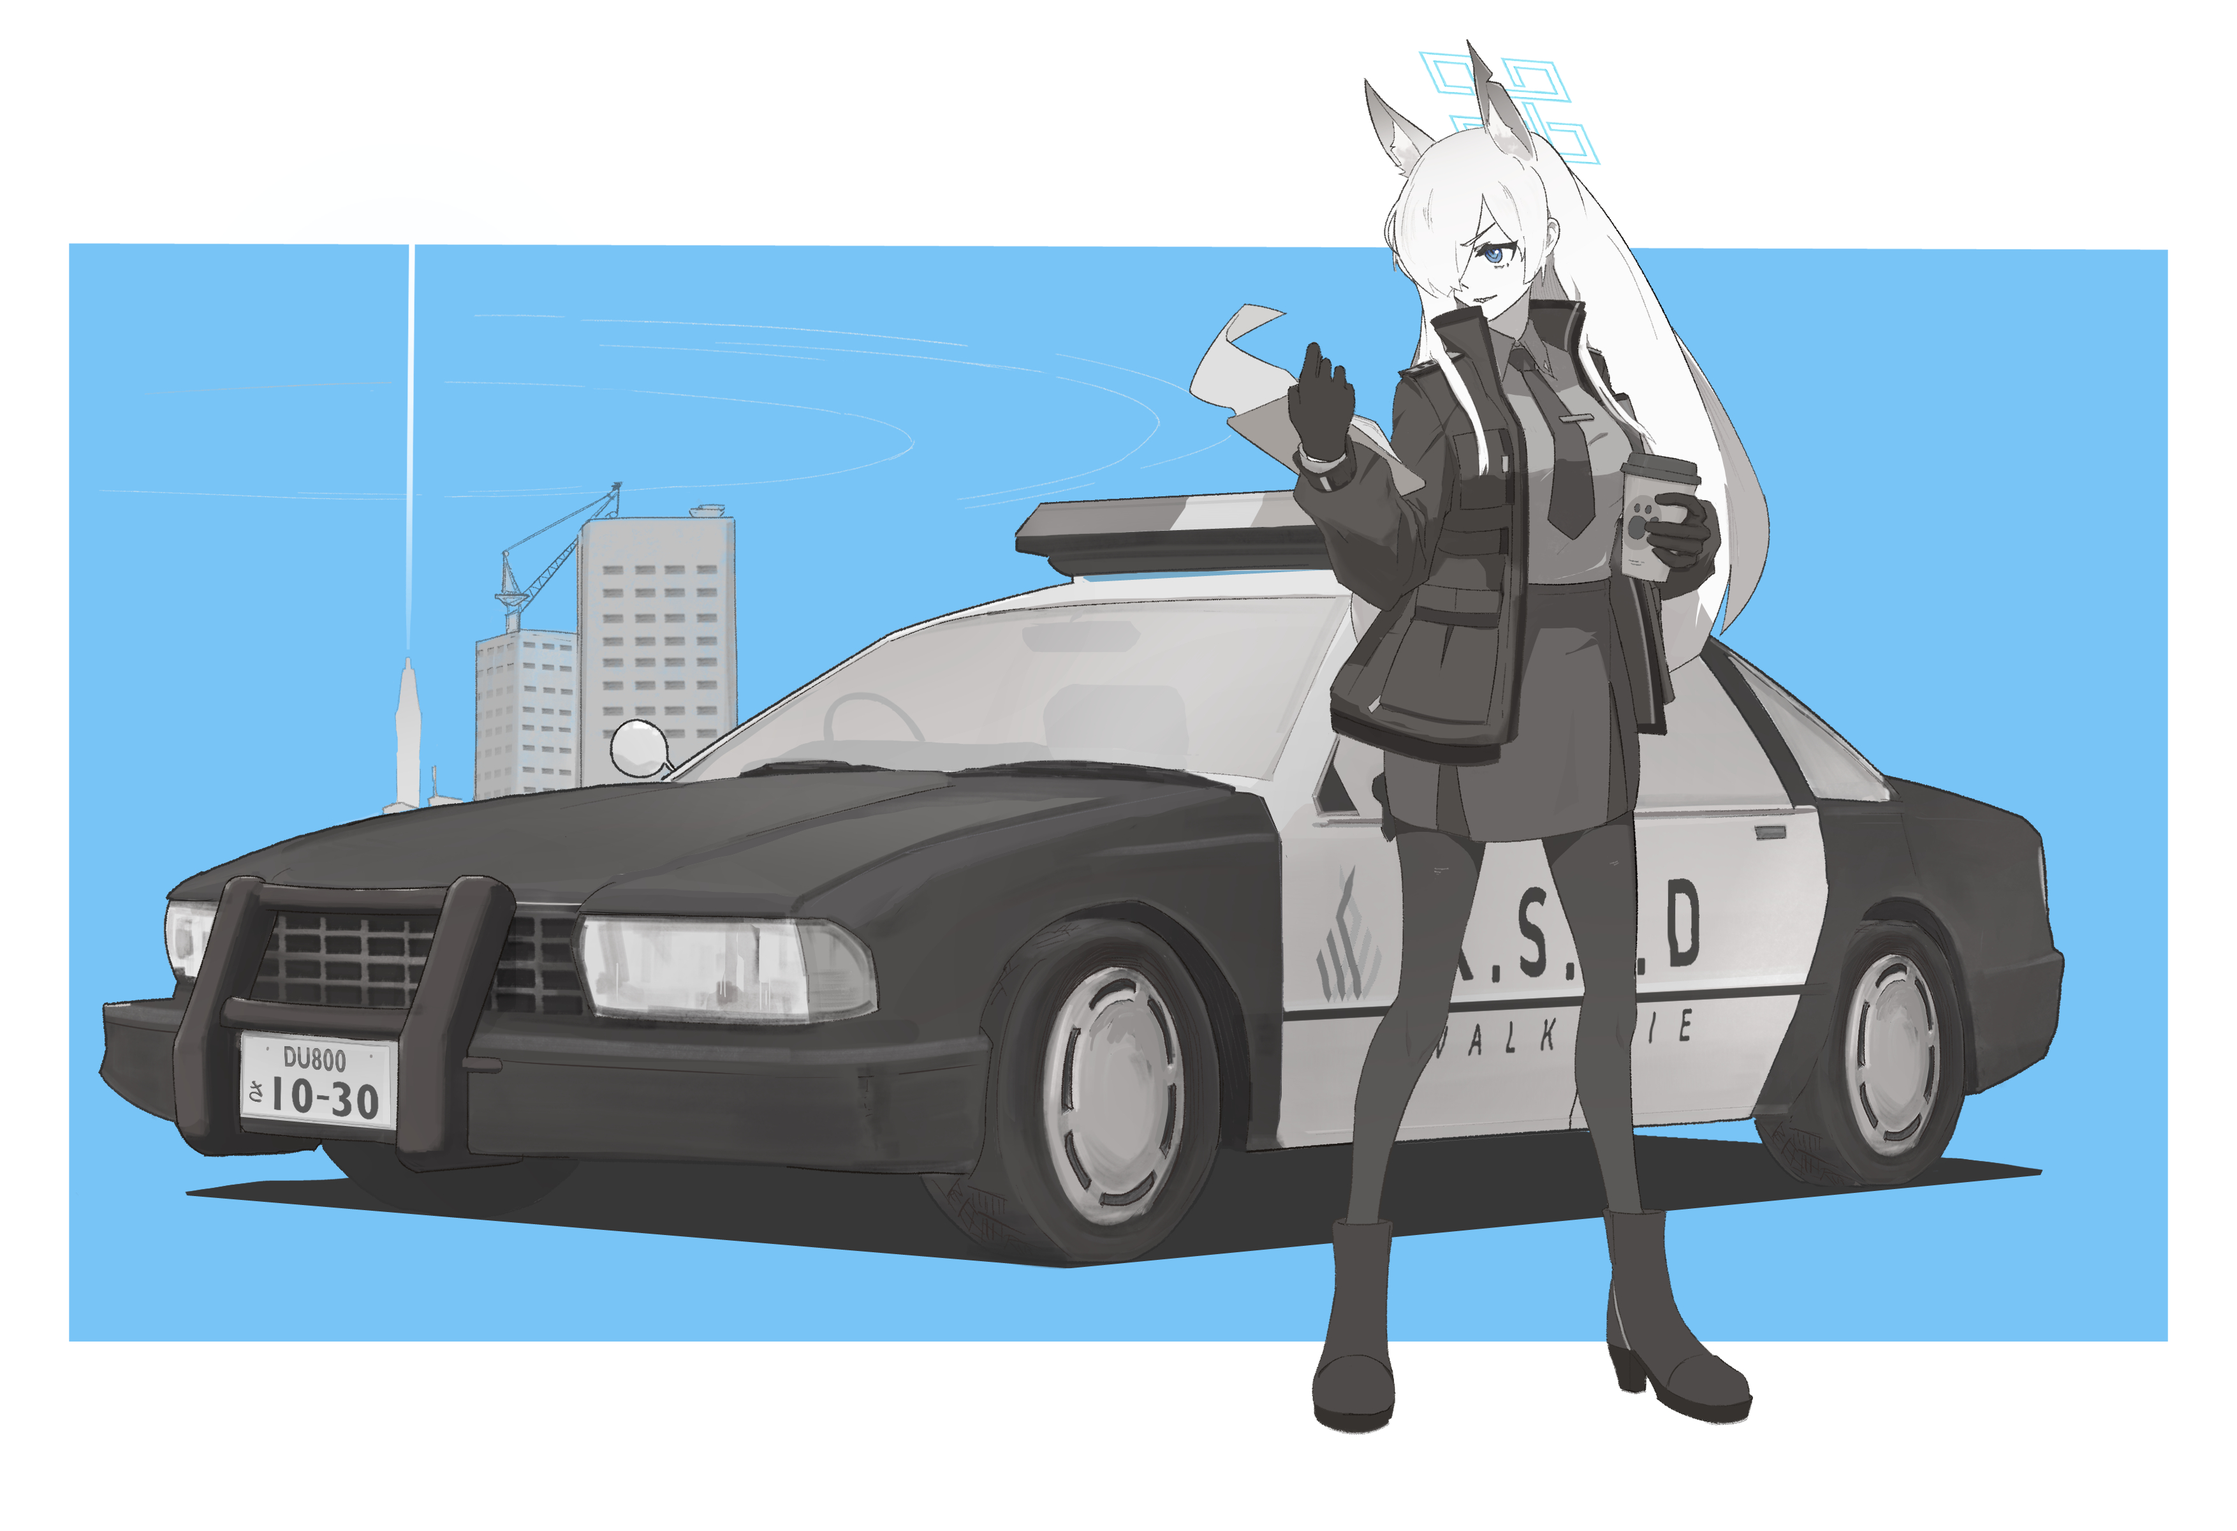
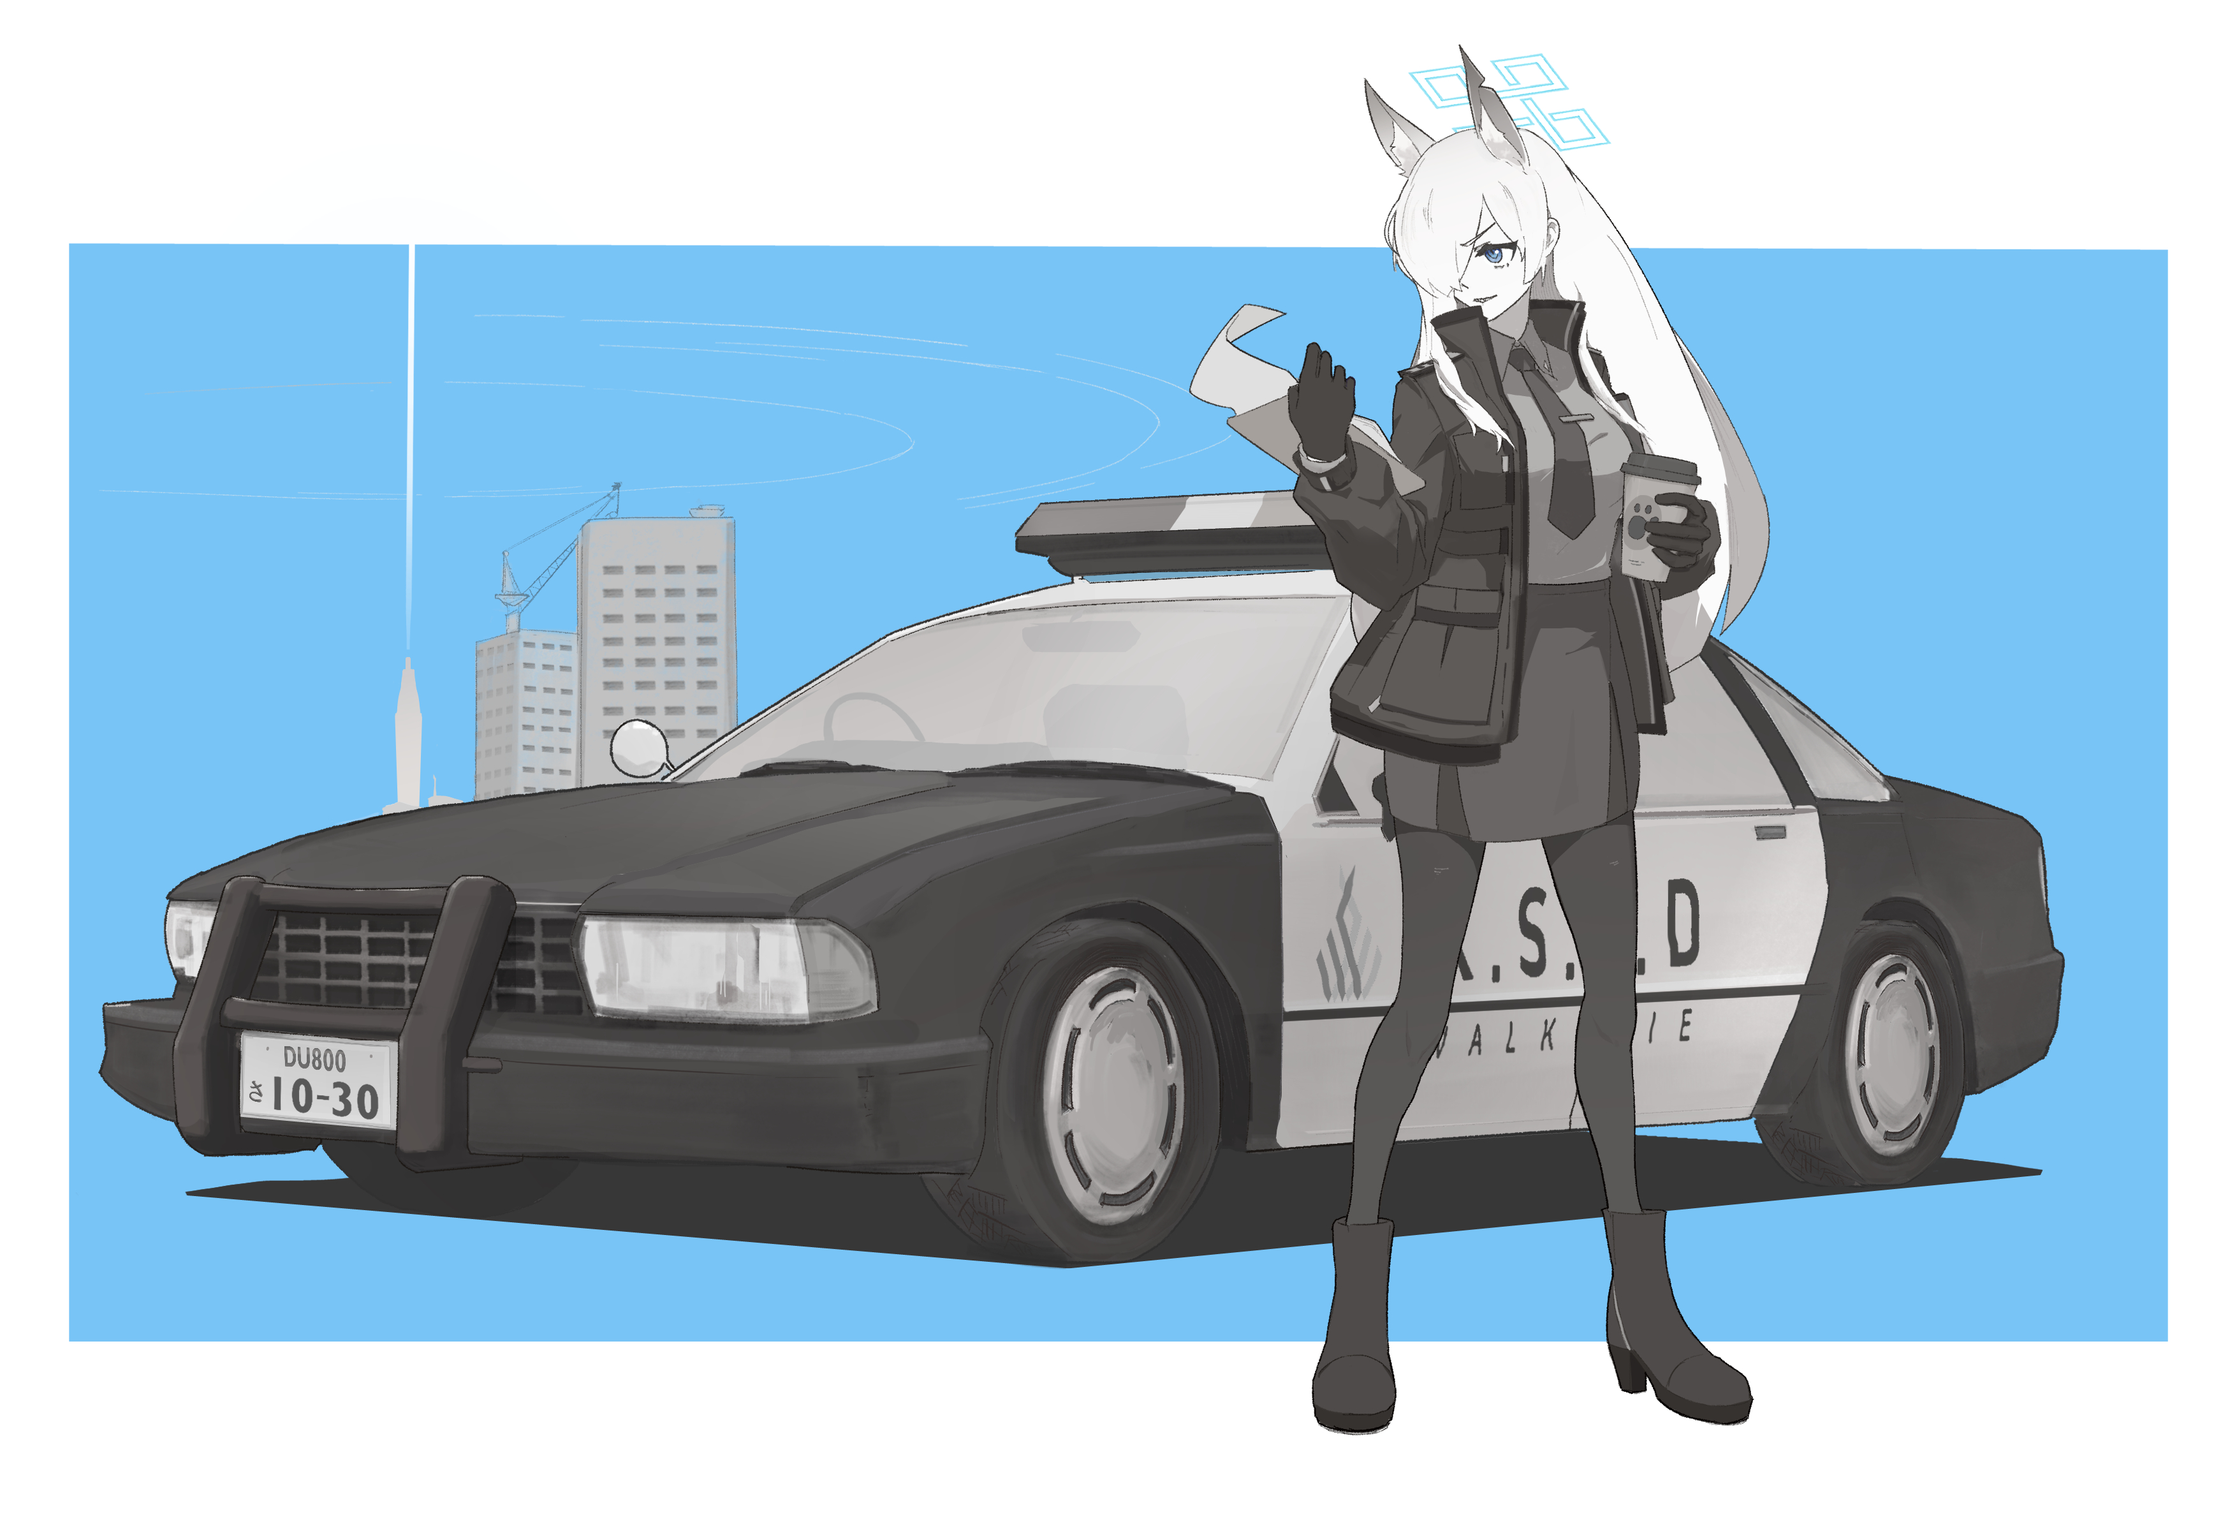
更新ICON 自我介紹

diff --git a/src/components/Home/Home2.js b/src/components/Home/Home2.js
@@ -1,64 +1,42 @@
 import React from "react";
 import { Container, Row, Col } from "react-bootstrap";
-import myImg from "../../Assets/avatar.svg";
 import Tilt from "react-parallax-tilt";
-import {
-
-  AiOutlineTwitter,
-  AiFillInstagram,
-} from "react-icons/ai";
-
-import{SiPixiv} from "react-icons/si"
+import { SiGmail } from "react-icons/si";
+import { FaXTwitter } from "react-icons/fa6";
 
 function Home2() {
   return (
     <Container fluid className="home-about-section" id="about">
       <Container>
         <Row>
+          <Col md={2}></Col>
           <Col md={8} className="home-about-description">
             <h1 style={{ fontSize: "2.6em" }}>
-              LET ME <span className="purple"> INTRODUCE </span> MYSELF
+              我過去的 <span className="purple"> 經歷 </span>
             </h1>
             <p className="home-about-body">
-              I fell in love with programming and I have at least learnt
-              something, I think… 🤷♂
+              在過去的職涯我擔任軟體工程師的職位
               <br />
-              <br />I am fluent in classics like
-              <i>
-                <b className="purple"> C++, Javascript and Go. </b>
-              </i>
+              <br />其中我開發了
+              <b className="purple"> C#, Angular,SQL,JAVA,Android...等等 </b>
               <br />
               <br />
-              My field of Interest's are building new &nbsp;
-              <i>
-                <b className="purple">Web Technologies and Products </b> and
-                also in areas related to{" "}
-                <b className="purple">
-                  Blockchain.
-                </b>
-              </i>
+              在這些時間裡，我接觸到大大小小的專案，也不斷地 <b className="purple">學習</b>學習新技術
+              並解決了許多問題
               <br />
               <br />
-              Whenever possible, I also apply my passion for developing products
-              with <b className="purple">Node.js</b> and
-              <i>
-                <b className="purple">
-                  {" "}
-                  Modern Javascript Library and Frameworks
-                </b>
-              </i>
-              &nbsp; like
-              <i>
-                <b className="purple"> React.js and Next.js</b>
-              </i>
+              我培養了<b className="purple">解決問題</b> 與 <b className="purple">溝通</b>的能力
+              <b className="purple"> 而我相信這些能力會陪伴我持續走下去</b>
+
             </p>
           </Col>
           <Col md={4} className="myAvtar">
             <Tilt>
-              <img src={myImg} className="img-fluid" alt="avatar" />
+
             </Tilt>
           </Col>
         </Row>
+        <Col md={2}></Col>
         <Row>
           <Col md={12} className="home-about-social">
             <h1>FIND ME ON</h1>
@@ -66,37 +44,28 @@ function Home2() {
               Feel free to <span className="purple">connect </span>with me
             </p>
             <ul className="home-about-social-links">
+
               <li className="social-icons">
-              <a
-                href="https://www.pixiv.net/en/users/6078612"
-                style={{ color: "white" }}
-                target="_blank" 
-                rel="noopener noreferrer"
-              >
-                <SiPixiv />
-              </a>
+                <a
+                  href="https://twitter.com/SPP5566"
+                  style={{ color: "white" }}
+                  target="_blank"
+                  rel="noopener noreferrer"
+                >
+                  <FaXTwitter />
+                </a>
               </li>
               <li className="social-icons">
-              <a
-                href="https://twitter.com/SPP5566"
-                style={{ color: "white" }}
-                target="_blank" 
-                rel="noopener noreferrer"
-              >
-                <AiOutlineTwitter />
-              </a>
+                <a
+                  href="mailto:hatsunemiku1144@gmail.com"
+                  style={{ color: "white" }}
+                  target="_blank"
+                  rel="noopener noreferrer"
+                >
+                  <SiGmail />
+                </a>
               </li>
-              <li className="social-icons">
-              <a
-                href="https://www.instagram.com/marisareimu"
-                style={{ color: "white" }}
-                target="_blank" 
-                rel="noopener noreferrer"
-              >
-                <AiFillInstagram />
-              </a>
-              </li>
-              
+
             </ul>
           </Col>
         </Row>

diff --git a/src/components/Home/Home.js b/src/components/Home/Home.js
@@ -16,30 +16,28 @@ function Home() {
 
         <Container className="home-content">
           <Row>
-            <h1>{t('testmsg')}</h1>
+
 
             <Col md={2}><div className="circle"></div></Col>
             <Col md={7}>
               <Row>
-                <Col>  <h1 className="heading">{t('selfIntroduction')}</h1>
 
-                </Col>
               </Row>
             </Col>
           </Row>
           <Row>
-            <Col md={7} className="home-header">
+            <Col md={8} className="home-header">
               <h1 style={{ paddingBottom: 15 }} className="heading">
-                Hi There!{" "}
+                Hi {" "}
                 <span className="wave" role="img" aria-labelledby="wave">
                   👋🏻
                 </span>
               </h1>
 
               <h1 className="heading-name">
-                我是
-                <strong className="main-name"> 徐沛駿</strong>
-                是一名插畫家
+                謝謝點進網站的您<br></br>
+
+                兩年半前，我做了  <b className="purple">大膽</b>一個決定，我想要做<br></br>Art related的工作。自那天以來，我為自己制定了學習計畫並 <b className="purple">每天畫畫</b>，即使是假日也不例外。
               </h1>
 
               <div style={{ padding: 50, textAlign: "left" }}>
@@ -47,14 +45,6 @@ function Home() {
               </div>
             </Col>
 
-            <Col md={5} style={{ paddingBottom: 20 }}>
-              <img
-                src={homeLogo}
-                alt="home pic"
-                className="img-fluid"
-                style={{ maxHeight: "450px" }}
-              />
-            </Col>
           </Row>
         </Container>
       </Container>

diff --git a/src/components/Navbar.js b/src/components/Navbar.js
@@ -12,7 +12,7 @@ import {
   AiOutlineHome,
   AiOutlineUser,
 } from "react-icons/ai";
-import{
+import {
   PiPaintBrush
 } from "react-icons/pi";
 
@@ -42,7 +42,7 @@ function NavBar() {
     >
       <Container>
         <Navbar.Brand href="/" className="d-flex">
-          <img src={logo} className="img-fluid logo" alt="brand" />
+          <img src={logo} className="img logo" alt="brand" />
         </Navbar.Brand>
         <Navbar.Toggle
           aria-controls="responsive-navbar-nav"
@@ -62,15 +62,7 @@ function NavBar() {
               </Nav.Link>
             </Nav.Item>
 
-            <Nav.Item>
-              <Nav.Link
-                as={Link}
-                to="/about"
-                onClick={() => updateExpanded(false)}
-              >
-                <AiOutlineUser style={{ marginBottom: "2px" }} /> About
-              </Nav.Link>
-            </Nav.Item>
+
 
             <Nav.Item>
               <Nav.Link
@@ -88,22 +80,14 @@ function NavBar() {
             <Nav.Item>
               <Nav.Link
                 as={Link}
-                to="/resume"
+                to="/about"
                 onClick={() => updateExpanded(false)}
               >
-                <CgFileDocument style={{ marginBottom: "2px" }} /> Resume
+                <AiOutlineUser style={{ marginBottom: "2px" }} /> About
               </Nav.Link>
             </Nav.Item>
 
-            <Nav.Item>
-              <Nav.Link
-                href="https://soumyajitblogs.vercel.app/"
-                target="_blank"
-                rel="noreferrer"
-              >
-                <ImBlog style={{ marginBottom: "2px" }} /> Blogs
-              </Nav.Link>
-            </Nav.Item>
+
           </Nav>
         </Navbar.Collapse>
       </Container>

diff --git a/public/index.html b/public/index.html
@@ -11,7 +11,26 @@
   <title>SPP | Art Portfolio</title>
   <meta name="description" content="Self Developed personal website build with React.js">
 
+  <!-- Google / Search Engine Tags -->
+  <meta itemprop="name" content="SPP | Art Portfolio">
+  <meta itemprop="description" content="Self Developed personal website build with React.js">
+  <meta itemprop="image"
+    content="https://raw.githubusercontent.com/soumyajit4419/Portfolio/master/Images/readme-img.png?token=AK7VCIF5RYEUZZAURELPTAC76U6AK">
 
+  <!-- Facebook Meta Tags -->
+  <meta property="og:url" content="https://soumyajit.vercel.app">
+  <meta property="og:type" content="website">
+  <meta property="og:title" content="SPP | Art Portfolio">
+  <meta property="og:description" content="Self Developed personal website build with React.js">
+  <meta property="og:image"
+    content="https://raw.githubusercontent.com/soumyajit4419/Portfolio/master/Images/readme-img.png?token=AK7VCIF5RYEUZZAURELPTAC76U6AK">
+
+  <!-- Twitter Meta Tags -->
+  <meta name="twitter:card" content="summary_large_image">
+  <meta name="twitter:title" content="SPP | Art Portfolio">
+  <meta name="twitter:description" content="Self Developed personal website build with React.js">
+  <meta name="twitter:image"
+    content="https://raw.githubusercontent.com/soumyajit4419/Portfolio/master/Images/readme-img.png?token=AK7VCIF5RYEUZZAURELPTAC76U6AK">
 </head>
 
 <body>

diff --git a/src/components/Footer.js b/src/components/Footer.js
@@ -1,11 +1,9 @@
 import React from "react";
 import { Container, Row, Col } from "react-bootstrap";
-import {
-  AiOutlineTwitter,
-  AiFillInstagram,
-} from "react-icons/ai";
-import { SiPixiv } from "react-icons/si"
-
+import { FaXTwitter } from "react-icons/fa6";
+import { SiPixiv } from "react-icons/si";
+import { AiFillInstagram } from "react-icons/ai";
+import { SiGmail } from "react-icons/si";
 function Footer() {
   let date = new Date();
   let year = date.getFullYear();
@@ -31,18 +29,6 @@ function Footer() {
                 <SiPixiv />
               </a>
             </li>
-
-            <li className="social-icons">
-              <a
-                href="https://twitter.com/SPP5566"
-                style={{ color: "white" }}
-                target="_blank"
-                rel="noopener noreferrer"
-              >
-                <AiOutlineTwitter />
-              </a>
-            </li>
-
 
 
           </ul>

diff --git a/src/components/About/AboutCard.js b/src/components/About/AboutCard.js
@@ -13,7 +13,7 @@ function AboutCard() {
             <br /> I am currently a software developer at Deanshoes
 
             <br />
-           I am looking forward to become a profresstional Artist.
+            I am looking forward to become a profresstional Artist.
             <br />
             <br />
             Apart from drawing, some other activities that I love to do!
@@ -31,9 +31,9 @@ function AboutCard() {
           </ul>
 
           <p style={{ color: "rgb(155 126 172)" }}>
-            "Strive to build things that make a difference!"{" "}
+            "The difficulties of not knowing are always much greater than the effort of learning."{" "}
           </p>
-          <footer className="blockquote-footer">Soumyajit</footer>
+          <footer className="blockquote-footer">Andrew Loomis</footer>
         </blockquote>
       </Card.Body>
     </Card>

diff --git a/src/components/About/About.js b/src/components/About/About.js
@@ -3,7 +3,6 @@ import { Container, Row, Col } from "react-bootstrap";
 import Github from "./Github";
 import Techstack from "./Techstack";
 import Aboutcard from "./AboutCard";
-import laptopImg from "../../Assets/about.png";
 import Toolstack from "./Toolstack";
 
 function About() {
@@ -30,7 +29,7 @@ function About() {
             style={{ paddingTop: "120px", paddingBottom: "50px" }}
             className="about-img"
           >
-            <img src={laptopImg} alt="about" className="img-fluid" />
+
           </Col>
         </Row>
         <h1 className="project-heading">

diff --git a/src/App.js b/src/App.js
@@ -37,9 +37,8 @@ function App() {
         <Routes>
           <Route path="/" element={<Home />} />
           <Route path="/artwork" element={<Artworks />} />
-          <Route path="/about" element={<About />} />
           <Route path="/resume" element={<Resume />} />
-
+          <Route path="/About" element={<About />} />
 
           <Route path="*" element={<Navigate to="/" />} />
         </Routes>

diff --git a/src/components/Home/Type.js b/src/components/Home/Type.js
@@ -6,8 +6,14 @@ function Type() {
     <Typewriter
       options={{
         strings: [
-          "數位插畫家",
-          "軟體工程師",
+          "設計",
+          "插畫",
+          "構圖",
+          "人體",
+          "結構",
+          "形體",
+          "光影",
+          "色彩"
         ],
         autoStart: true,
         loop: true,

diff --git a/src/style.css b/src/style.css
@@ -162,7 +162,7 @@ button:focus {
 
 .logo {
   height: 1.4em !important;
-  width: 2.5em !important;
+  width: 10em !important;
 }
 
 .navbar-nav .nav-link {
